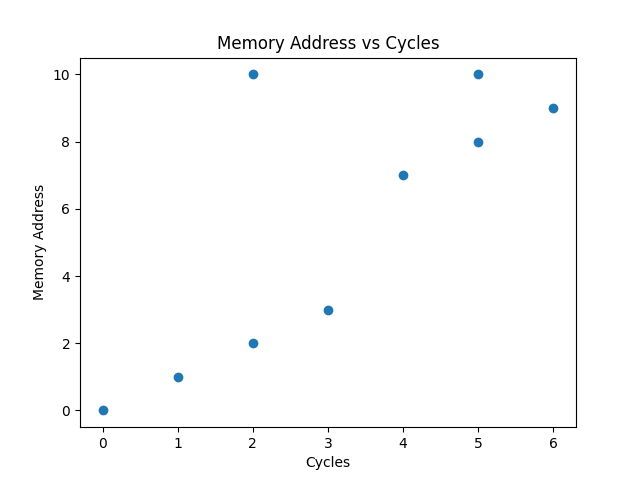
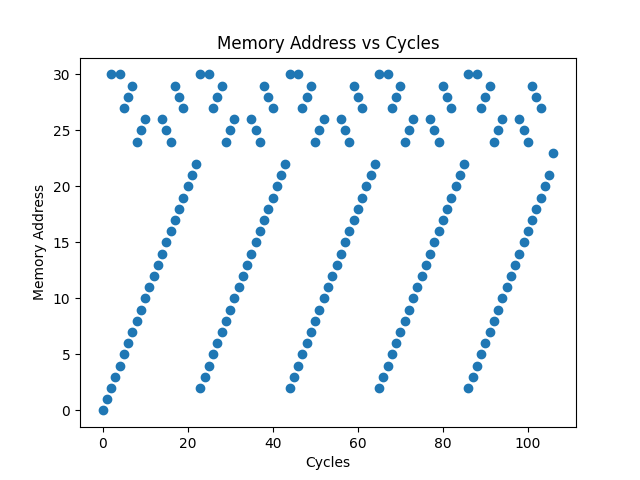
Updated

diff --git a/SimpleSimulator/Bonus.py b/SimpleSimulator/Bonus.py
@@ -14,11 +14,11 @@ def show(user_input):
     y = []
     for i in range(len(counter)):
         if user_input[counter[i]][:5] == '00100':  # ld R0 x
-            a = int(user_input[i][8:], 2)
+            a = int(user_input[counter[i]][8:], 2)
             y.append(a)
             x.append(i)
 
-        elif user_input[i][:5] == '00101':  # st R0 x
+        elif user_input[counter[i]][:5] == '00101':  # st R0 x
             a = int(user_input[counter[i]][8:], 2)
             y.append(a)
             x.append(i)
